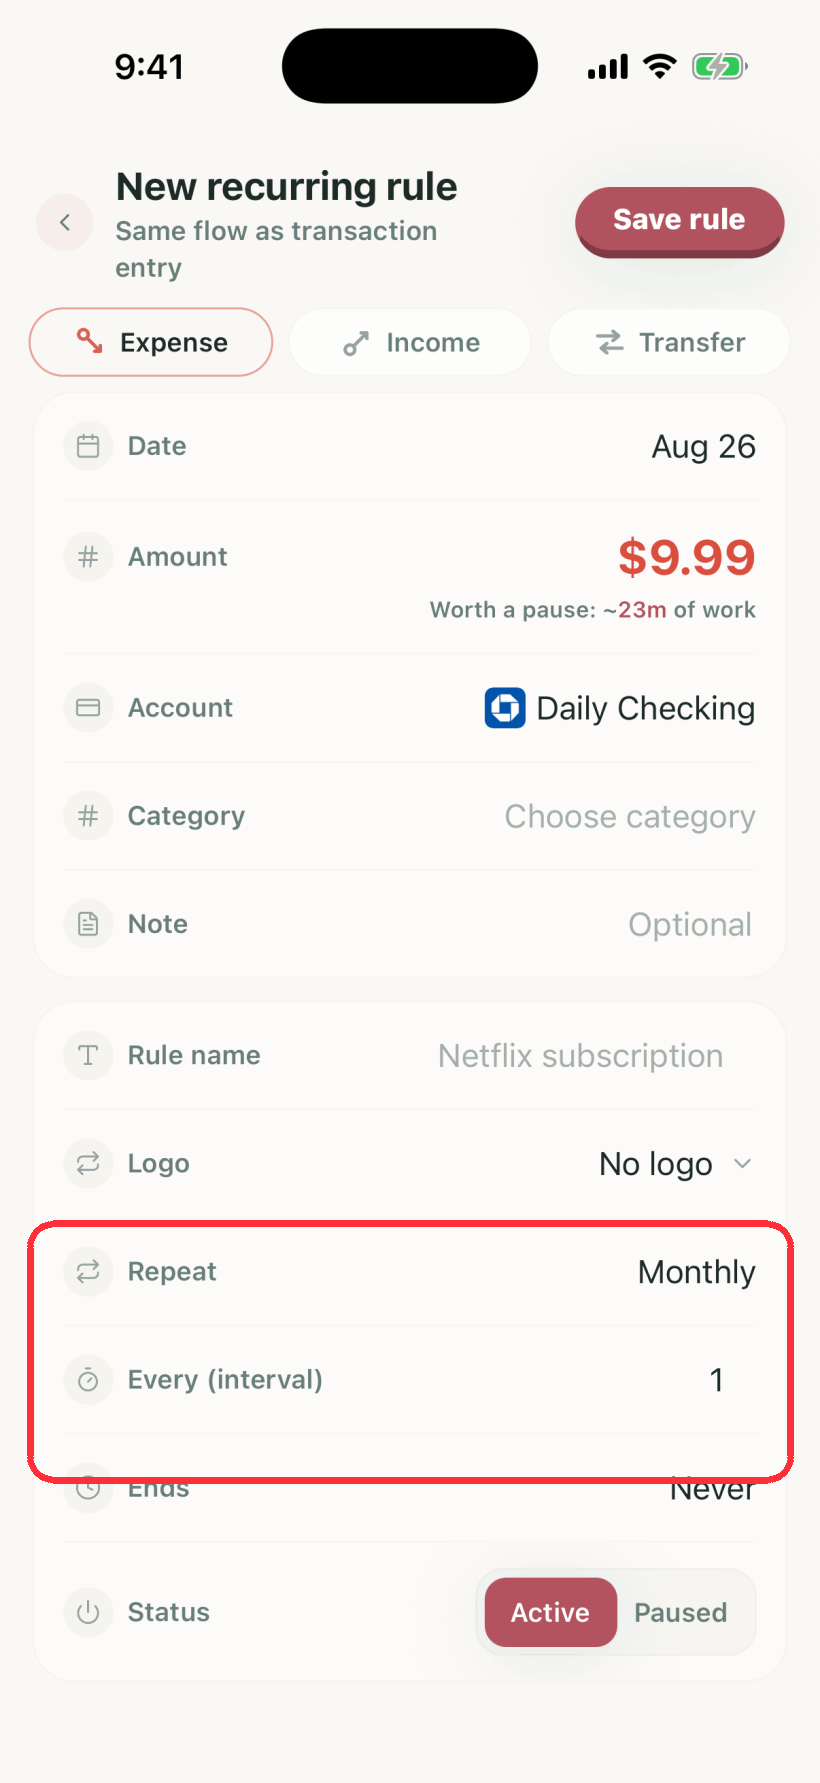
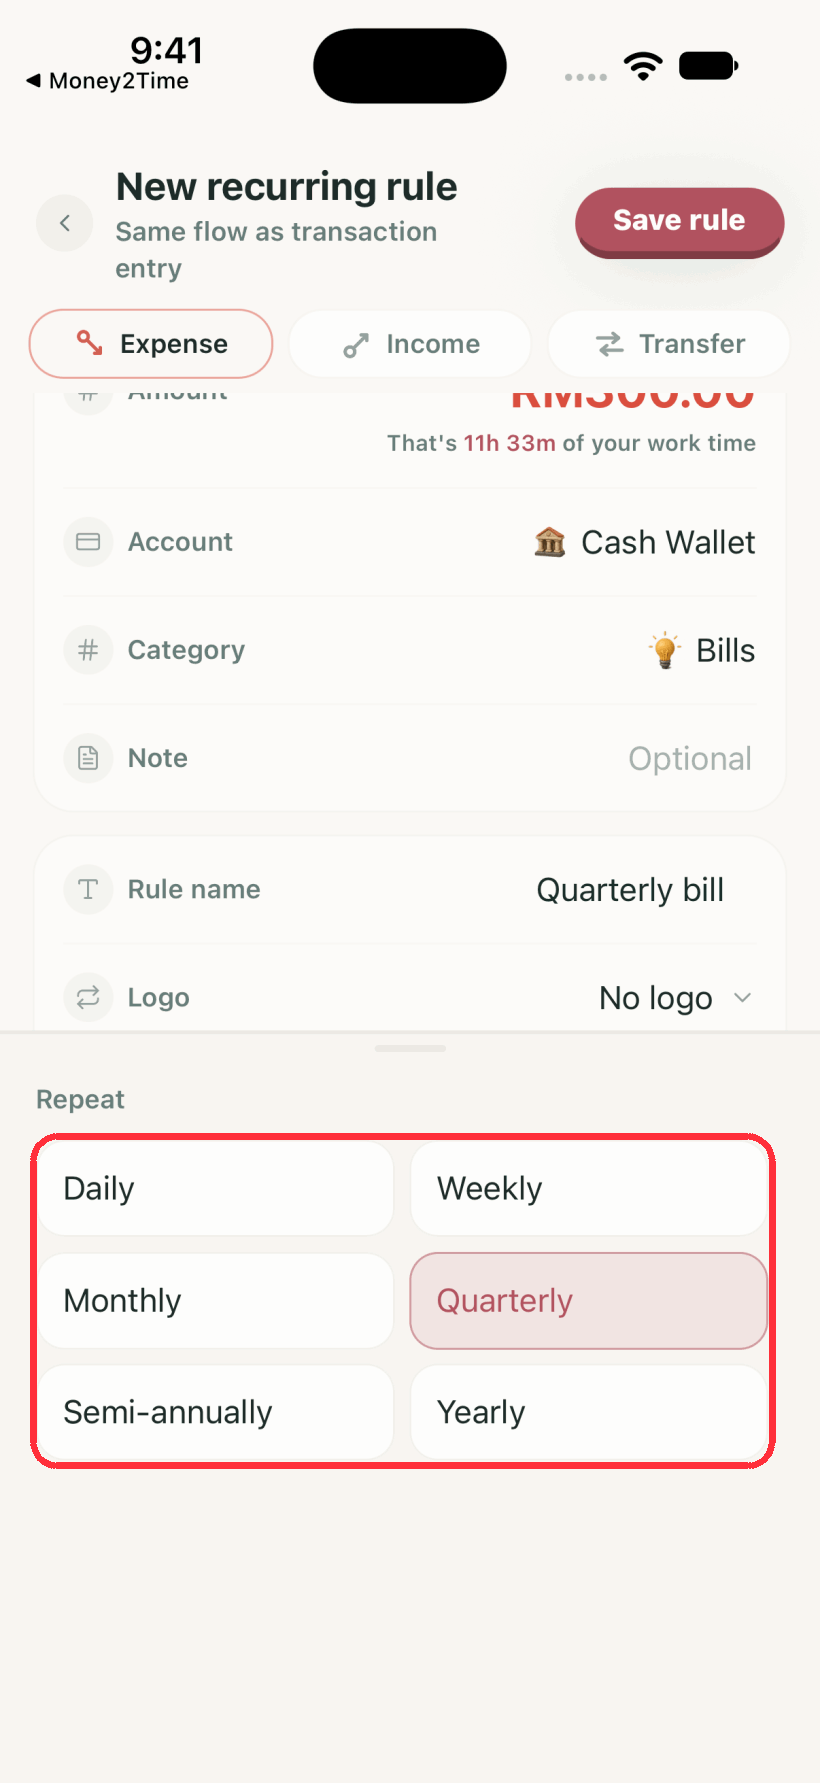
Add Quarterly and Semi-annually to recurring rules (#641)
Add quarterly and semi-annual recurring frequencies using compatible monthly intervals, translated labels, scheduling tests and normalized analytics documentation. Refresh the recurring tutorial, add iOS and browser verification evidence, and sync the matching web dashboard through money2time-web#65.

diff --git a/apps/mobile/features/transactions/components/TransactionEditorScreen.tsx b/apps/mobile/features/transactions/components/TransactionEditorScreen.tsx
@@ -127,6 +127,13 @@ import {
 import { newId } from '~/utils/id';
 import { runAfterInteractions, runAfterInteractionsCapped } from '~/utils/interactions';
 import { perfInteraction } from '~/utils/perfTrace';
+import {
+  RECURRENCE_FREQUENCIES,
+  type RecurrenceFrequency,
+  recurrenceFrequencyOf,
+  type RepeatingPattern,
+  storedRecurrenceOf,
+} from '~/utils/recurringRules';
 
 type ActiveField =
   | 'amount'
@@ -383,7 +390,7 @@ interface TransactionEditorScreenProps {
   initialAccountId?: string;
   recurringOptions?: {
     initialName?: string;
-    initialPattern?: 'daily' | 'weekly' | 'monthly' | 'yearly';
+    initialPattern?: RepeatingPattern;
     initialInterval?: number;
     initialEndDate?: string | null;
     initialIsActive?: boolean;
@@ -397,7 +404,7 @@ interface TransactionEditorScreenProps {
       transaction: CreateTransactionInput;
       recurring: {
         name: string;
-        pattern: 'daily' | 'weekly' | 'monthly' | 'yearly';
+        pattern: RepeatingPattern;
         interval: number;
         endDate: string | null;
         isActive: boolean;
@@ -954,12 +961,18 @@ export function TransactionEditorScreen({
   const [splitItemized, setSplitItemized] = useState(false);
 
   const [recurrenceName, setRecurrenceName] = useState(recurringOptions?.initialName ?? '');
-  const [recurrencePattern, setRecurrencePattern] = useState<
-    'daily' | 'weekly' | 'monthly' | 'yearly'
-  >(recurringOptions?.initialPattern ?? 'monthly');
-  const [recurrenceInterval, setRecurrenceInterval] = useState(
-    String(recurringOptions?.initialInterval ?? 1),
+  // Quarterly and semi-annually are saved as every 3 or 6 months, so a saved
+  // rule is read back into the frequency the user picks from.
+  const [initialRecurrence] = useState(() =>
+    recurrenceFrequencyOf(
+      recurringOptions?.initialPattern ?? 'monthly',
+      recurringOptions?.initialInterval ?? 1,
+    ),
   );
+  const [recurrenceFrequency, setRecurrenceFrequency] = useState<RecurrenceFrequency>(
+    initialRecurrence.frequency,
+  );
+  const [recurrenceInterval, setRecurrenceInterval] = useState(String(initialRecurrence.interval));
   const [recurrenceEndDate, setRecurrenceEndDate] = useState(
     recurringOptions?.initialEndDate ? dayKeyFromIsoLocal(recurringOptions.initialEndDate) : '',
   );
@@ -1077,10 +1090,12 @@ export function TransactionEditorScreen({
       categoryId: null,
     },
   });
-  const patternLabels: Record<string, string> = {
+  const patternLabels: Record<RecurrenceFrequency, string> = {
     daily: I18n.t('transactions.editor.daily'),
     weekly: I18n.t('transactions.editor.weekly'),
     monthly: I18n.t('transactions.editor.monthly'),
+    quarterly: I18n.t('transactions.editor.quarterly'),
+    semiannually: I18n.t('transactions.editor.semiannually'),
     yearly: I18n.t('transactions.editor.yearly'),
   };
   const blurNativeInputs = useCallback(() => {
@@ -2193,7 +2208,7 @@ export function TransactionEditorScreen({
           setFieldErrors({ rule_name: I18n.t('transactions.editor.error.required') });
           return;
         }
-        const interval = Math.max(1, Math.trunc(Number(recurrenceInterval) || 1));
+        const stored = storedRecurrenceOf(recurrenceFrequency, Number(recurrenceInterval));
         const endDateDraft = recurrenceEndDate.trim();
         const endDateIsoValue = toUtcIsoFromLocalDateInput(endDateDraft, 'end');
         const endDateIso = recurrenceEndMode === 'on_date' ? endDateIsoValue : null;
@@ -2209,8 +2224,8 @@ export function TransactionEditorScreen({
             transaction: capturedPayload,
             recurring: {
               name: normalizedName,
-              pattern: recurrencePattern,
-              interval,
+              pattern: stored.pattern,
+              interval: stored.interval,
               endDate: endDateIso,
               isActive: recurrenceIsActive,
               logoId: effectiveRecurrenceLogoId,
@@ -2979,23 +2994,23 @@ export function TransactionEditorScreen({
               {I18n.t('transactions.editor.repeat')}
             </Text>
             <View className="flex-row flex-wrap gap-2">
-              {(['daily', 'weekly', 'monthly', 'yearly'] as const).map((p) => (
+              {RECURRENCE_FREQUENCIES.map((p) => (
                 <Pressable
                   key={p}
                   onPress={() => {
                     void triggerHaptic('selection');
-                    setRecurrencePattern(p);
+                    setRecurrenceFrequency(p);
                     focusRecurrenceIntervalField();
                   }}
                   className={cn(
                     'w-[48%] rounded-2xl border px-3.5 py-3.5',
-                    recurrencePattern === p
+                    recurrenceFrequency === p
                       ? 'border-primary/50 bg-primary/10'
                       : 'border-border/40 bg-card',
                   )}
                 >
                   <Text
-                    className={cn(recurrencePattern === p ? 'text-primary' : 'text-foreground')}
+                    className={cn(recurrenceFrequency === p ? 'text-primary' : 'text-foreground')}
                   >
                     {patternLabels[p]}
                   </Text>
@@ -3704,7 +3719,7 @@ export function TransactionEditorScreen({
                             {I18n.t('transactions.editor.repeat')}
                           </Text>
                         </View>
-                        <Text variant="body">{patternLabels[recurrencePattern]}</Text>
+                        <Text variant="body">{patternLabels[recurrenceFrequency]}</Text>
                       </View>
                     </SummaryRow>
                   </View>

diff --git a/apps/mobile/__tests__/utils/recurringRules.test.ts b/apps/mobile/__tests__/utils/recurringRules.test.ts
@@ -3,9 +3,11 @@ import {
   addDaysToDayKey,
   nextRunAfter,
   projectRecurringOccurrences,
+  recurrenceFrequencyOf,
   recurringAmountPerMonth,
   recurringExpenseDueBetween,
   recurringMonthlyExpenseTotal,
+  storedRecurrenceOf,
 } from '~/utils/recurringRules';
 
 const AVERAGE_DAYS_PER_MONTH = 365.2425 / 12;
@@ -377,5 +379,55 @@ describe('recurringExpenseDueBetween', () => {
 
   it('returns 0 for an inverted window', () => {
     expect(recurringExpenseDueBetween([rule({})], '2026-07-01', '2026-06-01', identity)).toBe(0);
+  });
+});
+
+describe('quarterly and semi-annual frequencies', () => {
+  it('store as monthly rules every 3 and 6 months, scaled by the interval', () => {
+    expect(storedRecurrenceOf('quarterly', 1)).toEqual({ pattern: 'monthly', interval: 3 });
+    expect(storedRecurrenceOf('semiannually', 1)).toEqual({ pattern: 'monthly', interval: 6 });
+    expect(storedRecurrenceOf('quarterly', 2)).toEqual({ pattern: 'monthly', interval: 6 });
+    expect(storedRecurrenceOf('semiannually', 3)).toEqual({ pattern: 'monthly', interval: 18 });
+  });
+
+  it('leave the other frequencies as they are', () => {
+    expect(storedRecurrenceOf('daily', 2)).toEqual({ pattern: 'daily', interval: 2 });
+    expect(storedRecurrenceOf('weekly', 1)).toEqual({ pattern: 'weekly', interval: 1 });
+    expect(storedRecurrenceOf('monthly', 4)).toEqual({ pattern: 'monthly', interval: 4 });
+    expect(storedRecurrenceOf('yearly', 1)).toEqual({ pattern: 'yearly', interval: 1 });
+  });
+
+  it('guard the interval the same way the runner does', () => {
+    expect(storedRecurrenceOf('quarterly', 0)).toEqual({ pattern: 'monthly', interval: 3 });
+    expect(storedRecurrenceOf('monthly', Number.NaN)).toEqual({ pattern: 'monthly', interval: 1 });
+    expect(storedRecurrenceOf('semiannually', 1.7)).toEqual({ pattern: 'monthly', interval: 6 });
+  });
+
+  it('read every 3 and every 6 months back as quarterly and semi-annually', () => {
+    expect(recurrenceFrequencyOf('monthly', 3)).toEqual({ frequency: 'quarterly', interval: 1 });
+    expect(recurrenceFrequencyOf('monthly', 6)).toEqual({ frequency: 'semiannually', interval: 1 });
+  });
+
+  it('read any other rule back unchanged', () => {
+    expect(recurrenceFrequencyOf('monthly', 1)).toEqual({ frequency: 'monthly', interval: 1 });
+    expect(recurrenceFrequencyOf('monthly', 9)).toEqual({ frequency: 'monthly', interval: 9 });
+    expect(recurrenceFrequencyOf('monthly', 12)).toEqual({ frequency: 'monthly', interval: 12 });
+    expect(recurrenceFrequencyOf('weekly', 3)).toEqual({ frequency: 'weekly', interval: 3 });
+    expect(recurrenceFrequencyOf('yearly', 6)).toEqual({ frequency: 'yearly', interval: 6 });
+  });
+
+  it('cost a quarter and a sixth of the amount per month', () => {
+    const quarterly = storedRecurrenceOf('quarterly', 1);
+    const semiannual = storedRecurrenceOf('semiannually', 1);
+    expect(recurringAmountPerMonth(300, quarterly.pattern, quarterly.interval)).toBeCloseTo(100, 5);
+    expect(recurringAmountPerMonth(600, semiannual.pattern, semiannual.interval)).toBeCloseTo(
+      100,
+      5,
+    );
+  });
+
+  it('advance the run date by 3 and 6 months, clamping month ends', () => {
+    expect(nextRunAfter('2026-01-10T00:00:00.000Z', 'monthly', 3)).toBe('2026-04-10T00:00:00.000Z');
+    expect(nextRunAfter('2026-08-31T00:00:00.000Z', 'monthly', 6)).toBe('2027-02-28T00:00:00.000Z');
   });
 });

diff --git a/apps/mobile/utils/recurringRules.ts b/apps/mobile/utils/recurringRules.ts
@@ -71,6 +71,67 @@ export function recurringMonthlyExpenseTotal(
 }
 
 /* ------------------------------------------------------------------ *
+ * Frequencies the editor offers
+ *
+ * Quarterly and semi-annually are not patterns of their own: they are saved as
+ * a monthly rule every 3 or 6 months. Rules stay readable by every app version,
+ * backup, shared-ledger device and the web dashboard, which only know the
+ * stored patterns, and the runner and cost math need nothing new.
+ * ------------------------------------------------------------------ */
+
+export type RecurrenceFrequency =
+  | 'daily'
+  | 'weekly'
+  | 'monthly'
+  | 'quarterly'
+  | 'semiannually'
+  | 'yearly';
+
+export type RepeatingPattern = Exclude<RecurrencePattern, 'none'>;
+
+/** In the order the editor lists them. */
+export const RECURRENCE_FREQUENCIES: readonly RecurrenceFrequency[] = [
+  'daily',
+  'weekly',
+  'monthly',
+  'quarterly',
+  'semiannually',
+  'yearly',
+];
+
+const MONTHS_PER_FREQUENCY = { quarterly: 3, semiannually: 6 } as const;
+
+/** The pattern and interval saved for a frequency picked in the editor. */
+export function storedRecurrenceOf(
+  frequency: RecurrenceFrequency,
+  interval: number,
+): { pattern: RepeatingPattern; interval: number } {
+  const safeInterval = Math.max(1, Math.trunc(interval) || 1);
+  if (frequency === 'quarterly' || frequency === 'semiannually') {
+    return { pattern: 'monthly', interval: safeInterval * MONTHS_PER_FREQUENCY[frequency] };
+  }
+  return { pattern: frequency, interval: safeInterval };
+}
+
+/**
+ * The frequency a saved rule reads as. Only exactly every 3 or 6 months reads
+ * as quarterly or semi-annually; anything else keeps its own pattern, so
+ * "every 9 months" is not turned into "every 3 quarters".
+ */
+export function recurrenceFrequencyOf(
+  pattern: RepeatingPattern,
+  interval: number,
+): { frequency: RecurrenceFrequency; interval: number } {
+  if (pattern === 'monthly') {
+    if (interval === MONTHS_PER_FREQUENCY.quarterly) return { frequency: 'quarterly', interval: 1 };
+    if (interval === MONTHS_PER_FREQUENCY.semiannually) {
+      return { frequency: 'semiannually', interval: 1 };
+    }
+  }
+  return { frequency: pattern, interval };
+}
+
+/* ------------------------------------------------------------------ *
  * Occurrence projection
  *
  * A rule stores only its *next* run date; the runner walks it forward one

diff --git a/apps/mobile/context/AppContext.tsx b/apps/mobile/context/AppContext.tsx
@@ -217,6 +217,7 @@ import {
 import { newId, nowIso } from '~/utils/id';
 import { runAfterInteractions, runAfterInteractionsCapped } from '~/utils/interactions';
 import { perfMark } from '~/utils/perfTrace';
+import { recurrenceFrequencyOf } from '~/utils/recurringRules';
 import { countsAsExpenseRow } from '~/utils/spending';
 import {
   reconcileTransactionRow,
@@ -2036,7 +2037,10 @@ export function AppProvider({ children }: { children: React.ReactNode }) {
       });
       void trackEvent(AnalyticsEvents.RECURRING_RULE_CREATED, {
         type: input.type,
-        pattern: input.recurrencePattern,
+        // Report the same cadence as the list/editor infer from the saved schedule.
+        // The original picker choice is not persisted (quarterly x2 is semi-annual).
+        pattern: recurrenceFrequencyOf(input.recurrencePattern, input.recurrenceInterval ?? 1)
+          .frequency,
       });
     },
     [runMutation],

diff --git a/apps/mobile/features/settings/screens/RecurringScreen.tsx b/apps/mobile/features/settings/screens/RecurringScreen.tsx
@@ -41,6 +41,7 @@ import {
 } from '~/utils/formatters';
 import {
   addDaysToDayKey,
+  recurrenceFrequencyOf,
   recurringAmountPerMonth,
   recurringExpenseDueBetween,
   recurringMonthlyExpenseTotal,
@@ -62,8 +63,11 @@ function formatCadence(
   pattern: RecurringTransactionRule['recurrencePattern'],
   interval: number,
 ): string {
+  // Every 3 or 6 months reads as "Quarterly" / "Semi-annually", including
+  // schedules created through a different frequency and interval.
+  const cadence = recurrenceFrequencyOf(pattern, interval);
   // interval 1 reads as a plain adjective ("Monthly"); >1 as "Every N months".
-  if (interval <= 1) return I18n.t(`transactions.editor.${pattern}`);
+  if (cadence.interval <= 1) return I18n.t(`transactions.editor.${cadence.frequency}`);
   return I18n.t(EVERY_KEY_BY_PATTERN[pattern], { count: interval });
 }
 

diff --git a/apps/mobile/features/tutorials/content/organize.ts b/apps/mobile/features/tutorials/content/organize.ts
@@ -125,7 +125,7 @@ export const ORGANIZE_TUTORIALS: Tutorial[] = [
       {
         image: 'recurring-5',
         title: 'Set how often',
-        body: 'Daily, weekly, monthly, or yearly, with an interval. Every 3 months means quarterly. Ends can be a date or never.',
+        body: 'Daily, weekly, monthly, quarterly, semi-annually or yearly, with an interval. Ends can be a date or never.',
       },
       {
         image: 'recurring-6',

diff --git a/apps/mobile/lib/i18n/locales/th.ts b/apps/mobile/lib/i18n/locales/th.ts
@@ -912,6 +912,8 @@ const th = {
       daily: 'ทุกวัน',
       weekly: 'ทุกสัปดาห์',
       monthly: 'ทุกเดือน',
+      quarterly: 'ทุกไตรมาส',
+      semiannually: 'ทุกครึ่งปี',
       yearly: 'ทุกปี',
       every_interval: 'ทุก (ช่วงเวลา)',
       ends: 'สิ้นสุด',

diff --git a/apps/mobile/lib/i18n/locales/hi.ts b/apps/mobile/lib/i18n/locales/hi.ts
@@ -916,6 +916,8 @@ const hi = {
       daily: 'दैनिक',
       weekly: 'साप्ताहिक',
       monthly: 'मासिक',
+      quarterly: 'त्रैमासिक',
+      semiannually: 'अर्धवार्षिक',
       yearly: 'वार्षिक',
       every_interval: 'हर (अंतराल)',
       ends: 'समाप्ति',

diff --git a/apps/mobile/lib/i18n/locales/ru.ts b/apps/mobile/lib/i18n/locales/ru.ts
@@ -917,6 +917,8 @@ const ru = {
       daily: 'Ежедневно',
       weekly: 'Еженедельно',
       monthly: 'Ежемесячно',
+      quarterly: 'Ежеквартально',
+      semiannually: 'Раз в полгода',
       yearly: 'Ежегодно',
       every_interval: 'Каждые (интервал)',
       ends: 'Завершается',

diff --git a/apps/mobile/lib/i18n/locales/uk.ts b/apps/mobile/lib/i18n/locales/uk.ts
@@ -916,6 +916,8 @@ const uk = {
       daily: 'Щодня',
       weekly: 'Щотижня',
       monthly: 'Щомісяця',
+      quarterly: 'Щокварталу',
+      semiannually: 'Раз на пів року',
       yearly: 'Щороку',
       every_interval: 'Кожні (інтервал)',
       ends: 'Завершення',

diff --git a/apps/mobile/lib/i18n/locales/fil.ts b/apps/mobile/lib/i18n/locales/fil.ts
@@ -919,6 +919,8 @@ const fil = {
       daily: 'Araw-araw',
       weekly: 'Linggo-linggo',
       monthly: 'Buwan-buwan',
+      quarterly: 'Kada tatlong buwan',
+      semiannually: 'Kada anim na buwan',
       yearly: 'Taon-taon',
       every_interval: 'Bawat (interval)',
       ends: 'Magtatapos',

diff --git a/apps/mobile/lib/i18n/locales/vi.ts b/apps/mobile/lib/i18n/locales/vi.ts
@@ -915,6 +915,8 @@ const vi = {
       daily: 'Hàng ngày',
       weekly: 'Hàng tuần',
       monthly: 'Hàng tháng',
+      quarterly: 'Hàng quý',
+      semiannually: 'Nửa năm một lần',
       yearly: 'Hàng năm',
       every_interval: 'Mỗi (chu kỳ)',
       ends: 'Kết thúc',
